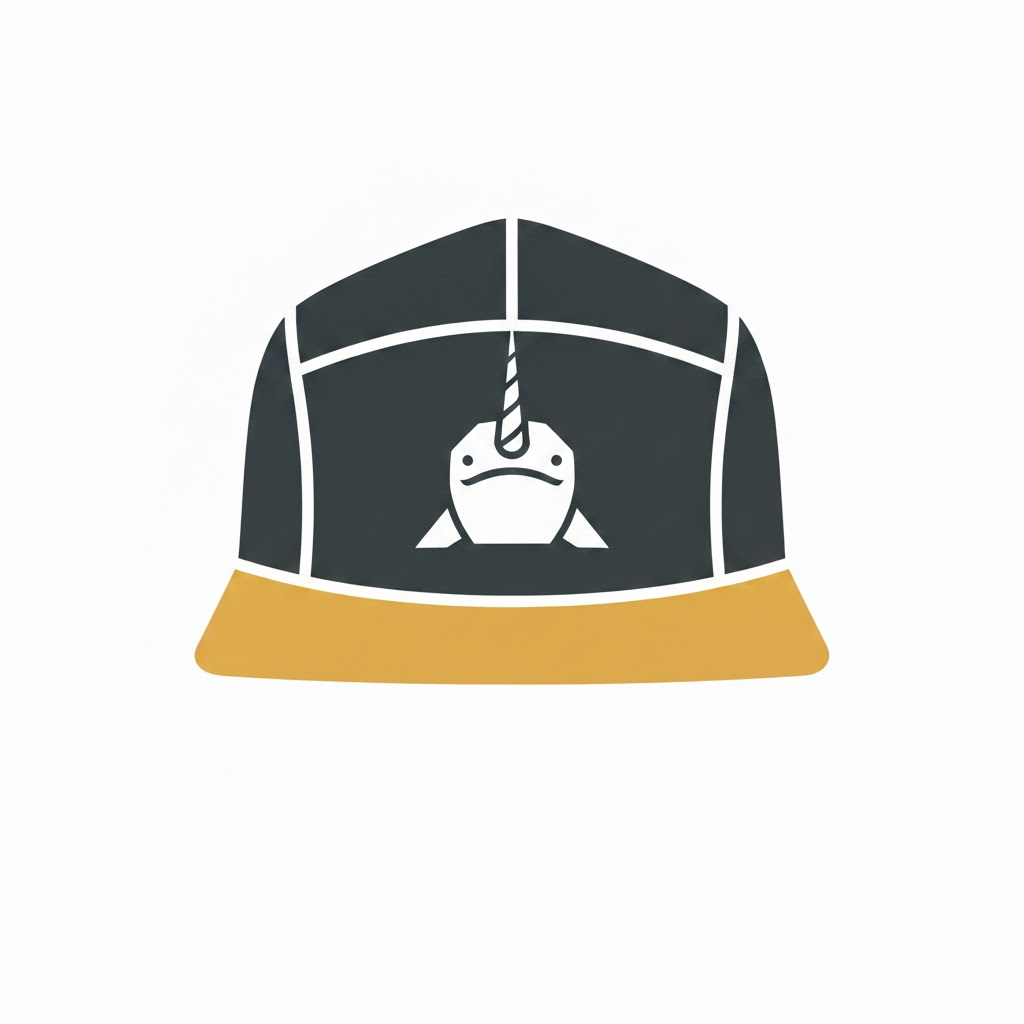
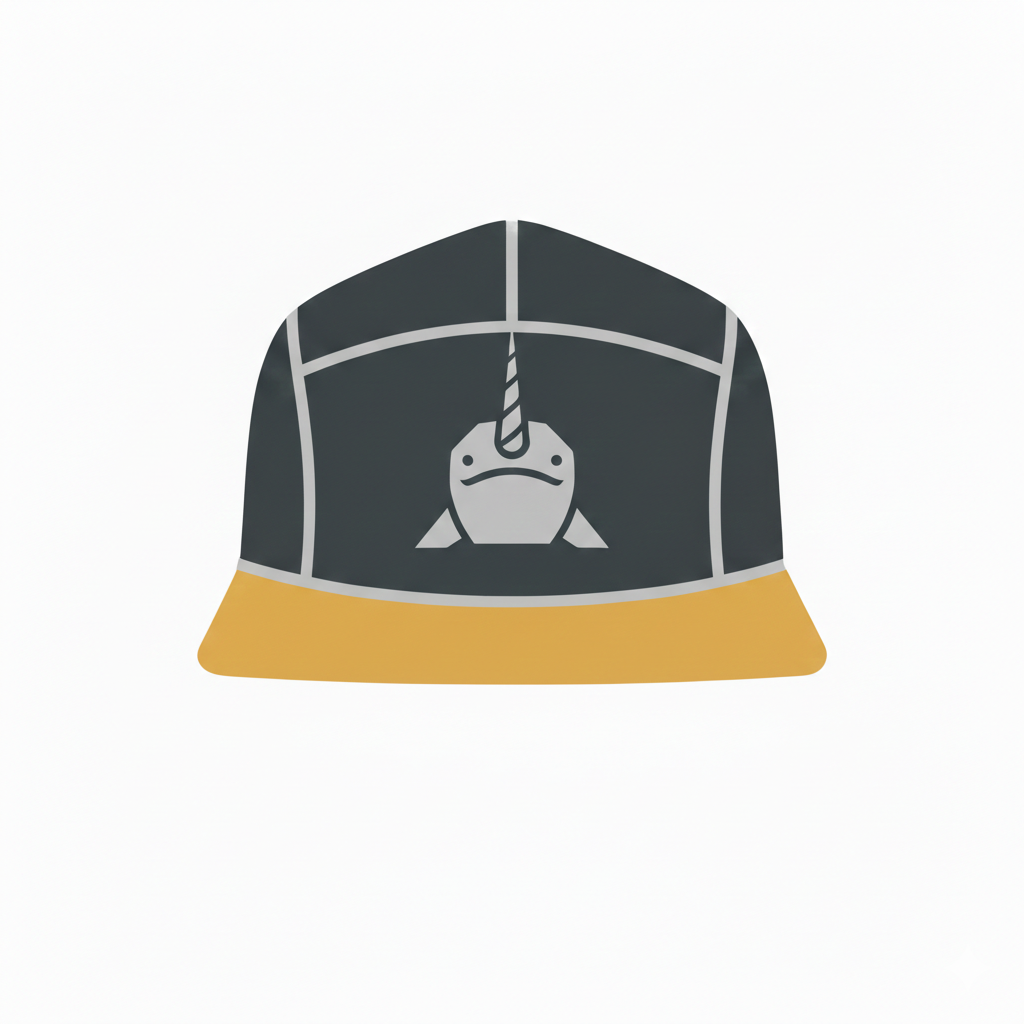
docs(): Add color to inner cap lines and narwhal

Changed region(s): [[0.2188, 0.2188, 0.7812, 0.5938], [0.7812, 0.5938, 0.8125, 0.6562], [0.1875, 0.5938, 0.2188, 0.6562]]

diff --git a/process_logo.py b/process_logo.py
@@ -1,0 +1,59 @@
+from PIL import Image, ImageOps
+import os
+
+def process_logo(input_path, output_dir):
+    # Open the image
+    img = Image.open(input_path)
+    img = img.convert("RGBA")
+    
+    # Use get_flattened_data for newer Pillow versions if preferred, 
+    # but getdata is still widely available despite deprecation warnings.
+    datas = img.getdata()
+    
+    newData = []
+    # Tolerance for "white"
+    tolerance = 240 
+    
+    for item in datas:
+        # If the pixel is very light (white-ish), make it transparent
+        if item[0] > tolerance and item[1] > tolerance and item[2] > tolerance:
+            newData.append((255, 255, 255, 0))
+        else:
+            newData.append(item)
+            
+    img.putdata(newData)
+    
+    # Crop to content
+    # Get bounding box of non-zero alpha
+    bbox = img.getbbox()
+    if bbox:
+        img = img.crop(bbox)
+    
+    # Ensure output dir exists
+    if not os.path.exists(output_dir):
+        os.makedirs(output_dir)
+        
+    # Save original cropped
+    img.save(os.path.join(output_dir, "logo.png"), "PNG")
+    
+    # Save resized versions
+    sizes = [128, 256, 512]
+    for size in sizes:
+        # Use thumbnail to maintain aspect ratio
+        resized = img.copy()
+        resized.thumbnail((size, size), Image.Resampling.LANCZOS)
+        
+        # Create a new square transparent background
+        new_img = Image.new("RGBA", (size, size), (255, 255, 255, 0))
+        # Center the resized logo
+        paste_pos = ((size - resized.width) // 2, (size - resized.height) // 2)
+        new_img.paste(resized, paste_pos)
+        
+        new_img.save(os.path.join(output_dir, f"logo_{size}.png"), "PNG")
+    
+    print(f"Processed logo saved to {output_dir}")
+
+if __name__ == "__main__":
+    input_file = "images/duwhal.jpg"
+    output_folder = "images"
+    process_logo(input_file, output_folder)
